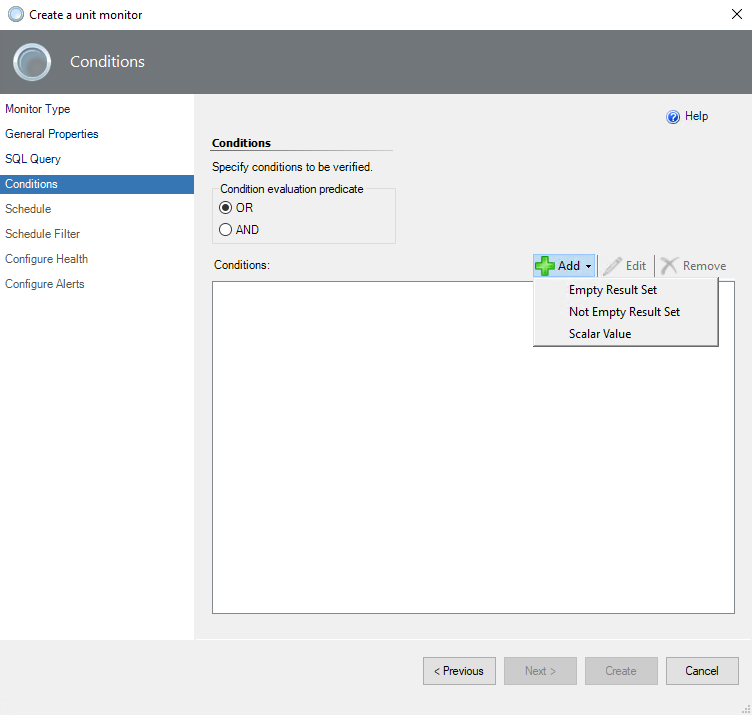
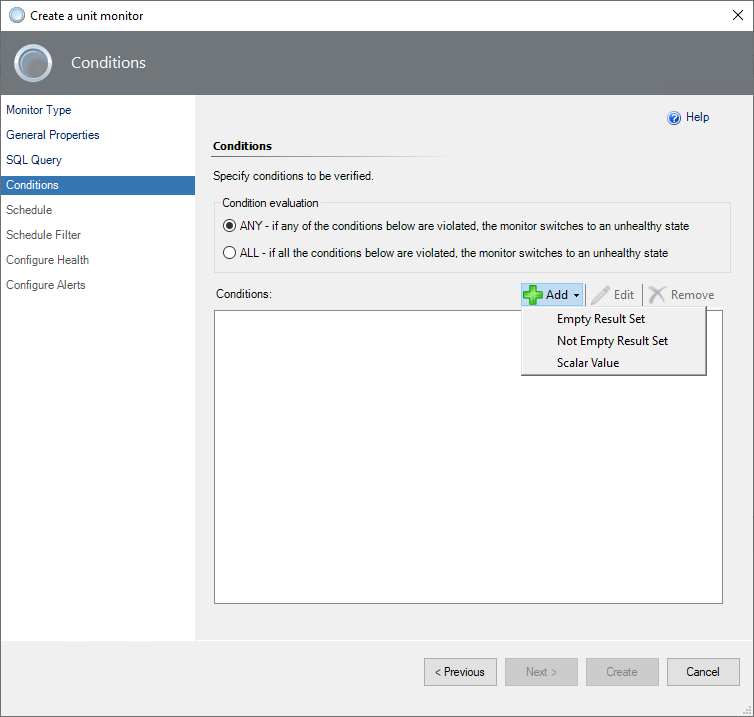
Update Custom query-based monitors section

diff --git a/SystemCenterDocs/scom/sql-server-management-pack-custom-monitor.md b/SystemCenterDocs/scom/sql-server-management-pack-custom-monitor.md
@@ -5,7 +5,7 @@ description: This article explains how to configure a custom query monitor in Sy
 manager: evansma
 author: epomortseva
 ms.author: v-fkornilov
-ms.date: 06/13/2022
+ms.date: 05/02/2024
 ms.topic: article
 ms.service: system-center
 ms.subservice: operations-manager
@@ -46,6 +46,12 @@ To create a two-state custom query-based monitor, perform the following steps:
 
 6. At the **Conditions** step, add one or more conditions to verify query results.
 
+   Condition supports two modes of evaluation:
+
+   - **ANY** - if any of the conditions are violated, the monitor switches to an unhealthy state.
+  
+   - **ALL** - if all the conditions are violated, the monitor switches to an unhealthy state.
+
     To add a new condition, select **Add**, and then select one of the available conditions:
 
     - **Empty Result Set**
@@ -60,7 +66,7 @@ To create a two-state custom query-based monitor, perform the following steps:
 
       Checks the scalar value in the specified cell of the result set. Only equal comparison is available at this moment. If you need complex logic, you can cover that with the query.
 
-    ![Screenshot that shows test conditions.](./media/sql-server-management-pack/sql-unit-monitor-conditions.png)
+    ![Screenshot that shows adding new conditions.](./media/sql-server-management-pack/sql-unit-monitor-conditions.png)
 
     When you add a condition, you must specify **Friendly name** and **Configuration** details for a specific check to be performed.
 
@@ -76,7 +82,7 @@ To create a two-state custom query-based monitor, perform the following steps:
 
     You can make more than one condition by using the **OR** and **AND** operators. If you want to add, edit, or remove a condition, select the condition and use the appropriate button.
 
-    ![Screenshot that shows multiple conditions.](./media/sql-server-management-pack/multiple-conditions.png)
+    ![Screenshot that shows multiple conditions.](./media/sql-server-management-pack/sql-unit-monitor-multiple-conditions.png)
 
     After you finish setting all the required conditions, select **Next**.
 
@@ -102,7 +108,7 @@ To create a two-state custom query-based monitor, perform the following steps:
 
    To specify the time range for both **Only process data during the specified time** and **Process data except during the specified time** modes, use the **Add** button and select the days and times.
 
-   ![Screenshot of selecting a time range for a monitor.](./media/sql-server-management-pack/select-time-range-in-filter.png)
+   ![Screenshot of selecting a time range for a monitor.](./media/sql-server-management-pack/sql-unit-monitor-select-time-range-in-filter.png)
 
    To exclude some days from the schedule, use the **Exclude days** button and choose the date range by using the **Start** and **End** fields. Complete the description, if applicable.
 
@@ -127,7 +133,7 @@ To create a two-state custom query-based monitor, perform the following steps:
     ![Screenshot of editing alerts.](./media/sql-server-management-pack/custom-monitor-editing-alerts.png)  
 
 > [!TIP]
-> By default, a custom query-based monitor works for all SQL Server instances. If you need to target only a specific instance, override your monitor after creation.
+> By default, a custom query-based monitor works for all SQL Server instances. To avoid alert storming you need to override the monitor target only to a specific instance of the SQL Server. To do that, in the monitor's override properties set the **Enabled = False** for the **MSSQL on Windows: DB Engine class**, and set the **Enabled = True** for the **specific SQL Server DB Engine** object.
 
 ## Three-state monitor
 
@@ -135,7 +141,7 @@ Creating a three-state custom query-based monitor is similar to creating a two-s
 
 A critical state has a higher priority than a warning in three-state monitors, and it's verified first. If one or more critical conditions fail, the monitor switches to the critical state, and warning conditions aren't verified.
 
-![Screenshot that shows a warning and a critical condition for a three-state monitor.](./media/sql-server-management-pack/warning-and-critical-conditions.png)
+![Screenshot that shows a warning and a critical condition for a three-state monitor.](./media/sql-server-management-pack/sql-unit-monitor-warning-and-critical-conditions.png)
 
 When you use the **Equal to** condition in a three-state monitor:
 
